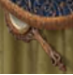
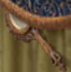
torch

diff --git a/poisk.py b/poisk.py
@@ -2,7 +2,7 @@ import cv2
 import numpy as np
 
 img = cv2.imread('ss2.png',1)
-fon = cv2.imread('fon2.png')
+# fon = cv2.imread('fon2.png')
 gray = cv2.cvtColor(img, cv2.COLOR_BGR2GRAY)
 
 items = {
@@ -13,7 +13,7 @@ items = {
          'pes_chas': ['imgs/bal_zal/pes_chas/1.png', 'imgs/bal_zal/pes_chas/2.png'],
          'zerkalce': ['imgs/bal_zal/zerkalce/1.png', 'imgs/bal_zal/zerkalce/2.png'],
          }
-templates = ['skripka', 'horse', 'binokl', 'svitok', 'pes_chas', 'zerkalce']
+templates = ['skripka', 'horse', 'binokl', 'svitok', 'zerkalce', 'pes_chas']
 
 dlina_spiska_putei = 2
 
@@ -32,7 +32,7 @@ for i in range(len(template_paths)):
    threshold = 0.8
    loc = np.where(matched >= threshold)
    for pt in zip(*loc[::-1]):
-      cv2.rectangle(img, pt, (pt[0] + h, pt[1] + w), (0,255,255), 1)
+      cv2.rectangle(img, pt, (pt[0] + h, pt[1] + w), (0,255,255), 5)
 
 cv2.imshow('Matched with Template',img)
 cv2.imwrite('ss2_item.png', img)

diff --git a/ocr.py b/ocr.py
@@ -1,12 +1,19 @@
 import easyocr
 # import numpy
+import time
 
-reader = easyocr.Reader(['ru','en'], gpu=False)
-result = reader.readtext('ss9task2.png', detail=0)
+start = time.time() ## точка отсчета времени
+
+reader = easyocr.Reader(['ru','en'], gpu=True)
+result = reader.readtext('ss10_task.png', detail=0)
 
 # file = open('ocr.txt', 'w')
 # file.write(str(result))
 # file.close()
-print(type(result))
+# print(type(result))
 print(result)
-print(sorted(result[0]))
+# print(sorted(result[0]))
+
+end = time.time() - start ## собственно время работы программы
+
+print(end) ## вывод времени

diff --git a/main.py b/main.py
@@ -1,5 +1,5 @@
 import pyautogui
-import win32gui # install module: pywin32!
+import win32gui # install module: pywin32
 import cv2
 from PIL import Image
 import easyocr
@@ -37,7 +37,7 @@ except:
 
 
 
-reader = easyocr.Reader(['ru','en'], gpu=False)
+reader = easyocr.Reader(['ru','en'], gpu=True)
 result = reader.readtext('ss10_task.png', detail=0)
 
 

diff --git a/templates.py b/templates.py
@@ -1,0 +1,16 @@
+result = ['Зеркальце', 'Туфелька', 'Лошадь', 'Ангел', 'Зонт', 'Чашка']
+templates = ['skripka', 'horse', 'binokl', 'svitok', 'zerkalce', 'pes_chas']
+
+
+perevod = [
+    [],
+    [],
+    [],
+    [],
+    [],
+    [],
+    [],
+    [],
+    [],
+    [],
+    ]

diff --git a/torch.py b/torch.py
@@ -1,0 +1,3 @@
+import torch
+x = torch.randn(3, 3)
+x = x.to(device)
